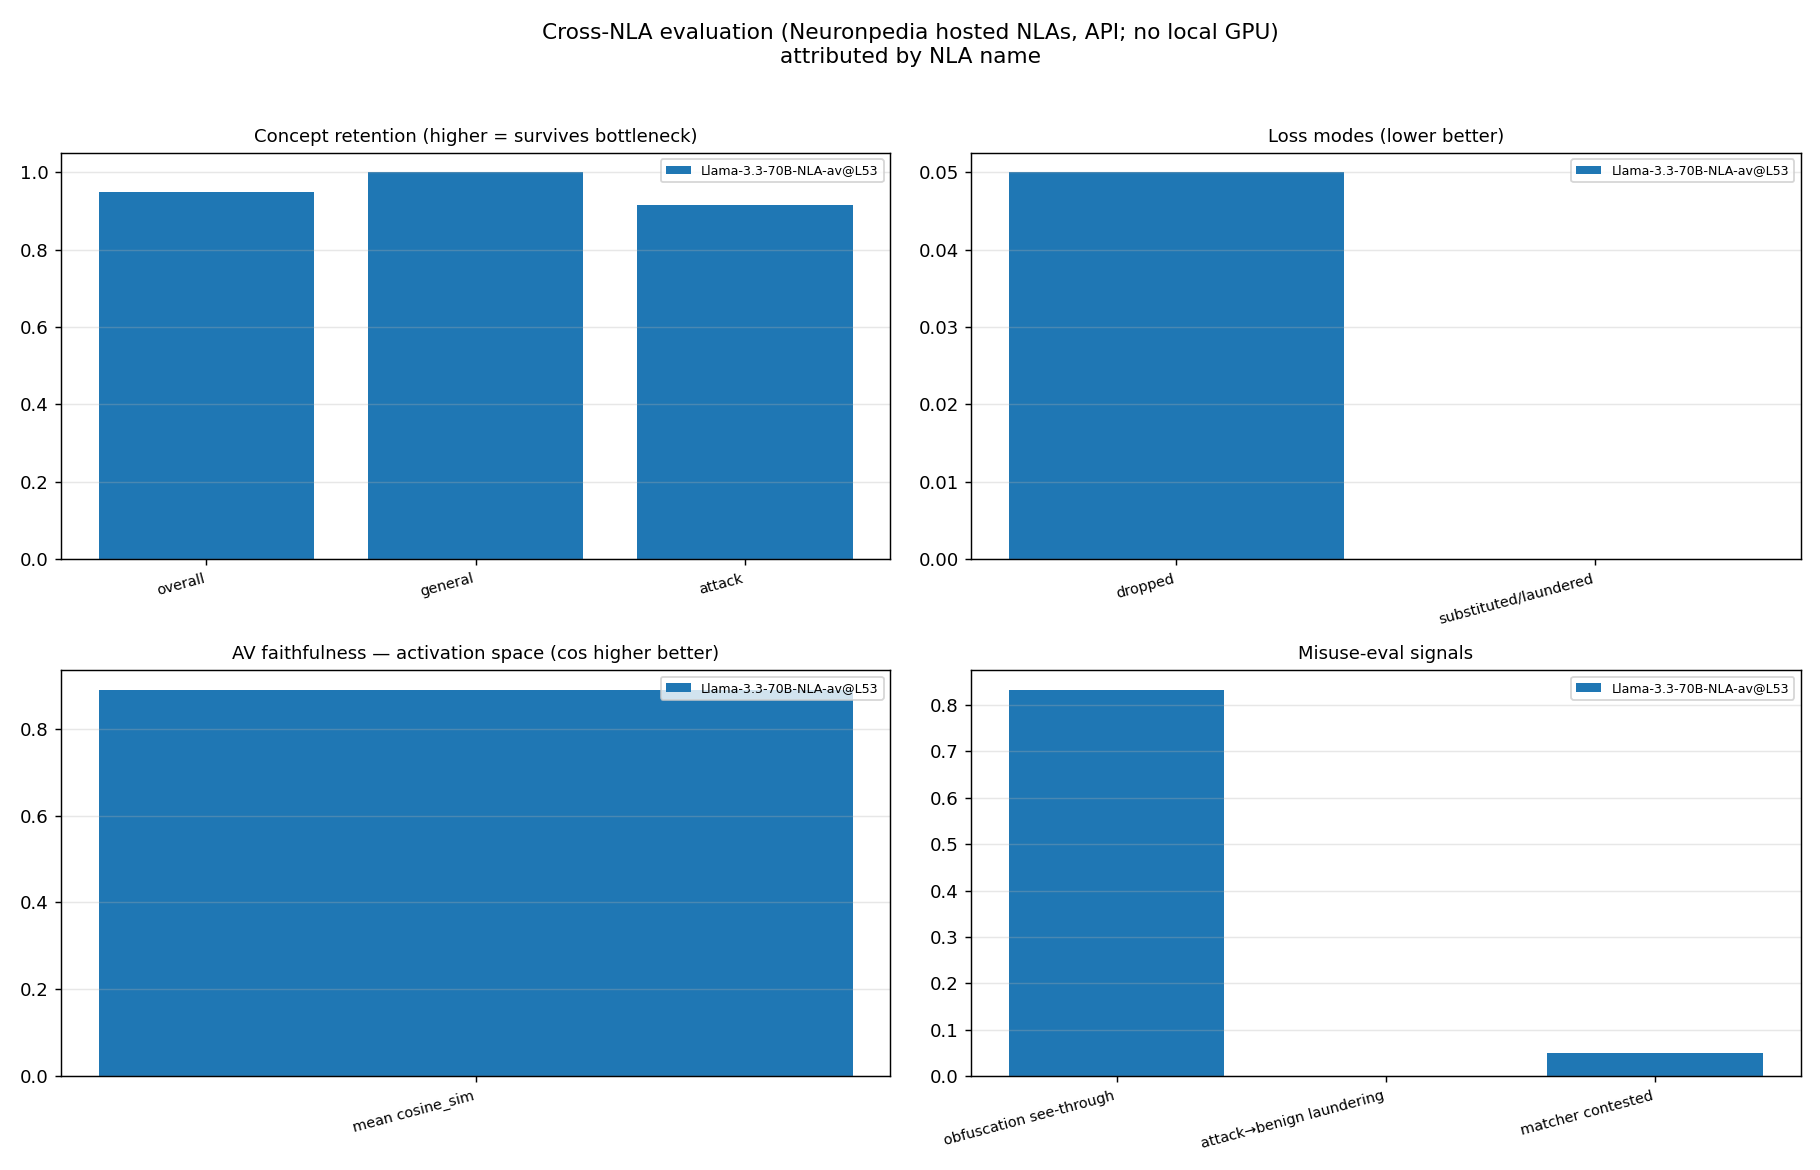
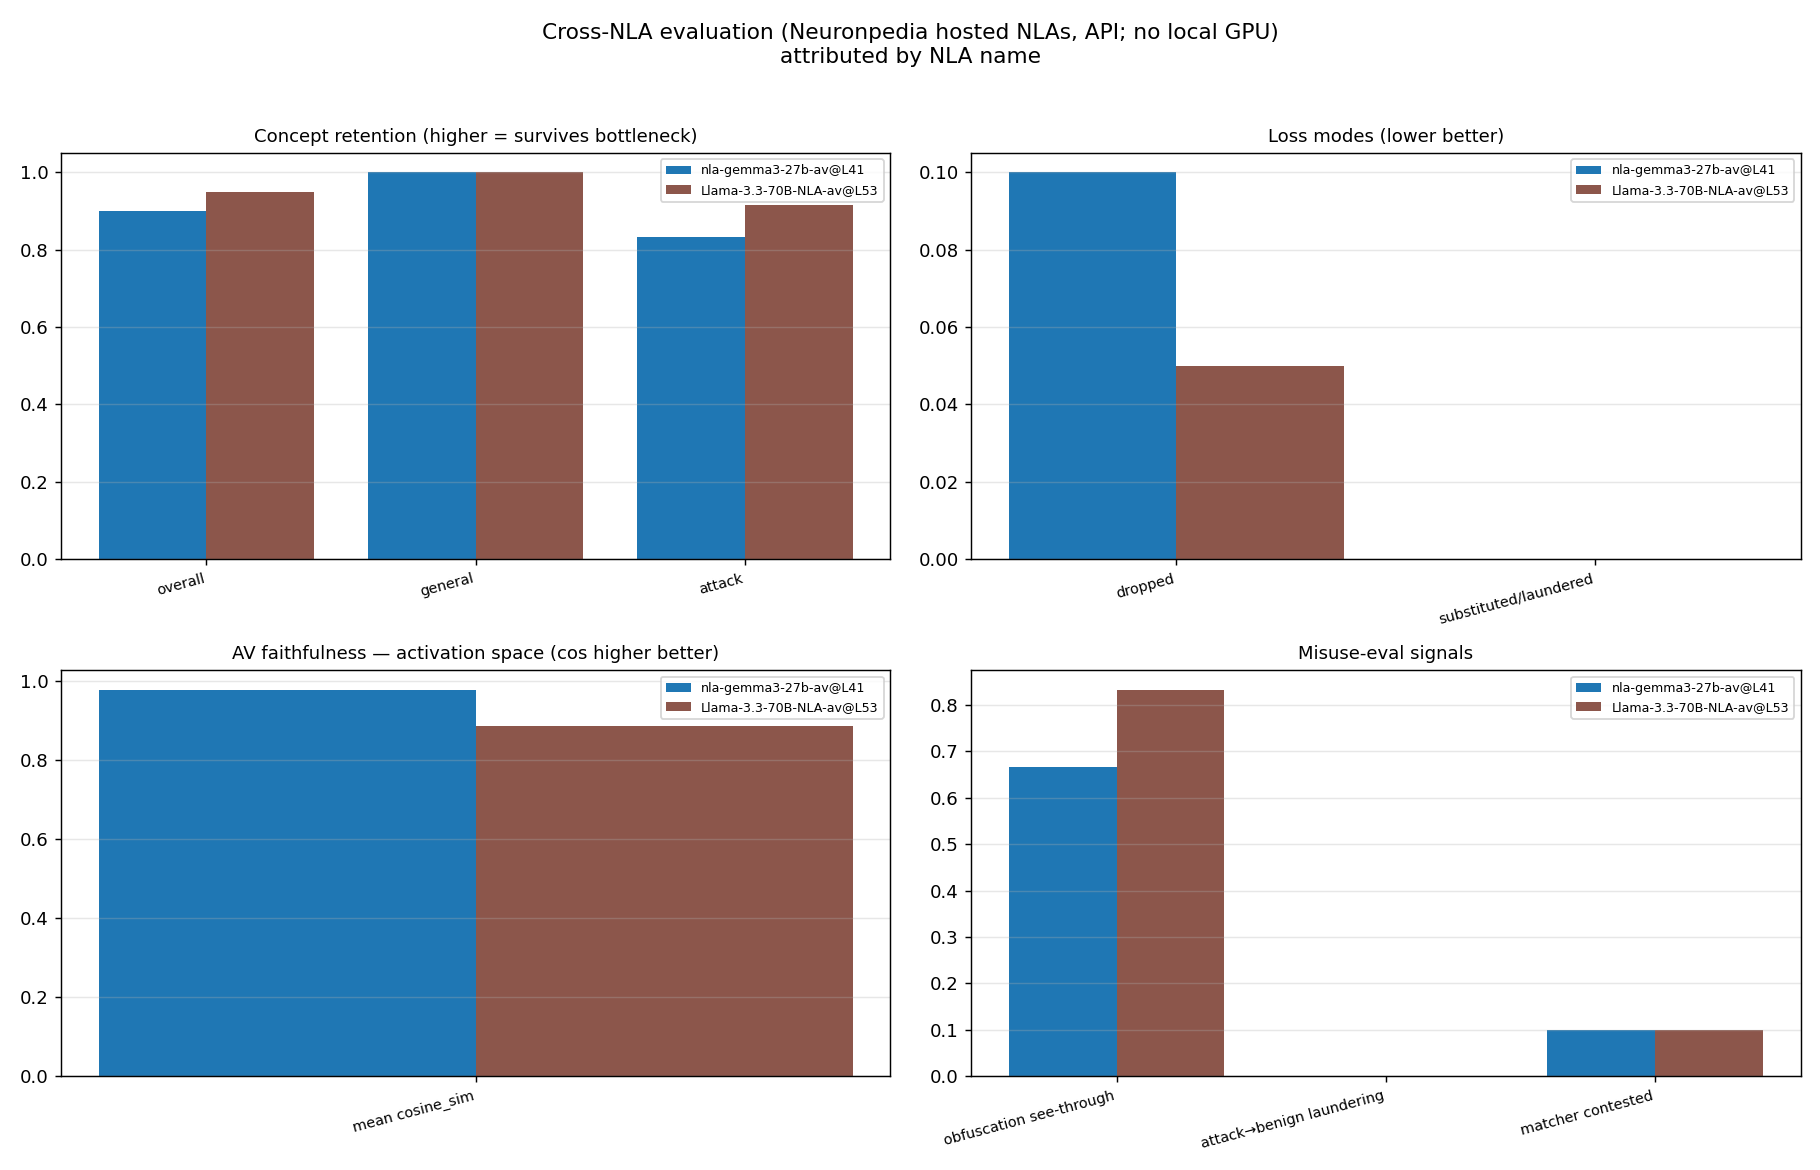
Gemma-3 NLA recovered: run designed cross-NLA comparison, retry transient 500
The Gemma-3-27B NLA inference server (kitft-l41) recovered on 2026-06-10 after
being 502 since ~2026-06-05. Ran the designed hosted-vs-hosted comparison.

- nla_eval/adapters.py: add 500 to NeuronpediaNLA._RETRY_CODES. The recovered
  backend emits transient 'NLA server error: 500' that clears on retry; without
  this a single transient fault aborted the whole Gemma-3 run (which is what
  happened on the first attempt). A persistent 500 still raises after the budget.
- results/cross_nla/: Gemma-3 evaluated on the identical 20-example dataset and
  matcher as Llama, so retention/see-through/laundering are directly comparable.
  Gemma-3: retention 0.90, cosine 0.979 (mse 0.043), see-through 0.67, laundering
  0.00. Llama (re-run): retention 0.95, cosine 0.887 (mse 0.225), see-through
  0.83, laundering 0.00. cross_nla_comparison.png regenerated as a real 2-NLA
  comparison (was single-NLA while Gemma-3 was down). STATUS.md updated.
- README leaderboard table + bullets updated with Gemma-3's real numbers (was
  'pending'); embeds the hosted Gemma-3-vs-Llama comparison graph.

Open: Gemma-3 held-out doc retrieval (protocol-anchored) not yet run.
AI-writing pass: 0 em dashes / watchlist / prose semicolons.

diff --git a/nla_eval/adapters.py b/nla_eval/adapters.py
@@ -136,8 +136,11 @@ class NeuronpediaNLA(NLA):
         self.last_truncated = 0
 
     # gateway codes worth retrying — the NLA inference server is on RunPod and
-    # cold-starts with 502/503/504; 429 is the documented rate limit.
-    _RETRY_CODES = (429, 502, 503, 504)
+    # cold-starts or transiently faults with 500/502/503/504; 429 is the documented
+    # rate limit. 500 is included because the hosted backend emits transient
+    # "NLA server error: 500" responses that clear on retry (seen on Gemma-3,
+    # 2026-06-10); a genuine persistent 500 still raises after the retry budget.
+    _RETRY_CODES = (429, 500, 502, 503, 504)
 
     def _explain(self, text: str, positions):
         import json

diff --git a/README.md b/README.md
@@ -328,8 +328,23 @@ chance is 0.077, MiniLM embedder), so it is directly comparable across NLAs.
 | NLA (by name) | Base model | Access | Doc retrieval char / sem | Concept retention | Obfuscation see-through | Laundering |
 |---|---|---|---|---|---|---|
 | `Llama-3.3-70B-NLA-av@L53` | llama3.3-70b-it | hosted (API only) | **0.396 / 0.503** | 0.95 | 0.83 | 0.00 |
+| `nla-gemma3-27b-av@L41` | gemma-3-27b-it | hosted (API only) | not yet run | 0.90 | 0.67 | 0.00 |
 | `Gemma-4-E2B-NLA@L23` | google/gemma-4-E2B | local (full access) | **0.135 / 0.135** | not run on this set | not run on this set | not run on this set |
-| `nla-gemma3-27b-av@L41` | gemma-3-27b-it | hosted (API only) | pending | pending | pending | pending |
+
+The two hosted NLAs (Llama and Gemma-3) were run on the **identical 20-example
+dataset with the identical matcher**, so their retention, see-through, and
+laundering are directly comparable to each other. Doc retrieval is the column that
+is also comparable to the local Gemma-4 NLA, because its null is fixed by the
+protocol (12 distractors, chance 0.077). Gemma-3 doc retrieval is not yet run.
+
+![Cross-NLA comparison of the two hosted NLAs (Gemma-3-27B and Llama-3.3-70B) on the identical dataset: concept retention, loss modes, AV faithfulness, and misuse-eval signals, attributed by NLA name.](results/cross_nla/cross_nla_comparison.png)
+
+Gemma-3 and Llama trade off against each other. Gemma-3 reconstructs much more
+faithfully (cosine 0.979 versus 0.887, mse 0.043 versus 0.225) but retains slightly
+fewer concepts (0.90 versus 0.95) and is easier to fool with obfuscated attack text
+(see-through 0.67 versus 0.83). Neither launders attack terms into benign neighbors.
+Activation-space cosine is reported per-NLA rather than ranked, because it is not on
+a common scale across different base models.
 
 **Full-access tier (white-box, local NLAs only).** Needs the raw activation, so it
 cannot be scored on the hosted NLAs above.
@@ -338,17 +353,9 @@ cannot be scored on the hosted NLAs above.
 |---|---|
 | `Gemma-4-E2B-NLA@L23` | 0.988 / 0.695 |
 
-The Llama NLA's mean reconstruction faithfulness is cosine 0.890, reported per-NLA
-rather than in the leaderboard because activation-space cosine is not on a common
-scale across base models. The Gemma-3 NLA is pending because its hosted inference
-server has returned 502 since about 2026-06-05, not because of a harness error (an
-identical request returns 200 for Llama). See the
-[access tiers](#access-tiers-api-runnable-vs-full-access) section for why only the
-hosted-on-the-same-protocol metrics line up across NLAs.
+![Llama-3.3-70B vs Gemma-4-E2B on held-out doc retrieval (left) and the Gemma-4-E2B bottleneck probe in-distribution vs out-of-distribution (right), attributed by NLA name.](results/cross_nla/cross_nla_docret_comparison.png)
 
-![Cross-NLA results: held-out doc retrieval across the tested NLAs (left) and the Gemma-4-E2B bottleneck probe in-distribution vs out-of-distribution (right), attributed by NLA name.](results/cross_nla/cross_nla_docret_comparison.png)
-
-The two sides tell different stories. The Llama NLA is verbalizer-strong: its AV
+These two sides tell different stories. The Llama NLA is verbalizer-strong: its AV
 text identifies the held-out source document well above chance. The Gemma-4-E2B NLA
 is the opposite, bottleneck-strong but verbalizer-weak: a linear probe reads
 in-distribution concepts off its activation at 0.988 AUC, yet its verbalization
@@ -357,11 +364,13 @@ at the conditioning wall. That gap is exactly what NLAttack is built to separate
 
 The detail bullets, with caveats:
 
-- **Cross-NLA, hosted (no GPU).** On a fixed dataset, the **Llama-3.3-70B** NLA
-  (`kitft-l53`) reaches concept retention 0.95, zero attack-to-benign laundering,
-  and mean AV faithfulness (cosine) 0.890. Held-out doc retrieval, matched to the
-  Gemma-4 protocol below (same docs, 12 distractors so chance is 0.077, MiniLM
-  embedder): char 0.396, semantic 0.503.
+- **Cross-NLA, hosted (no GPU).** On one fixed 20-example dataset and matcher, the
+  **Llama-3.3-70B** NLA (`kitft-l53`) reaches concept retention 0.95, AV
+  faithfulness cosine 0.887 (mse 0.225), and obfuscation see-through 0.83; the
+  **Gemma-3-27B** NLA (`kitft-l41`) reaches retention 0.90, a much higher cosine
+  0.979 (mse 0.043), and see-through 0.67. Both show zero attack-to-benign
+  laundering. Llama held-out doc retrieval (12 distractors, chance 0.077, MiniLM):
+  char 0.396, semantic 0.503; Gemma-3 doc retrieval not yet run.
 - **Local Gemma-4-E2B NLA.** The bottleneck encodes in-distribution concepts at
   about 0.99 probe AUC and out-of-distribution concepts at about 0.70, so the
   bottleneck is not a uniform filter. The verbalizer is the weak side: held-out

diff --git a/results/cross_nla/STATUS.md b/results/cross_nla/STATUS.md
@@ -5,12 +5,17 @@ attributed by NLA name (see README "Result attribution" convention).
 
 | NLA | status |
 |---|---|
-| `kitft/Llama-3.3-70B-NLA-av @ L53` (llama3.3-70b-it) | ✅ evaluated 2026-06-08 |
-| `kitft/nla-gemma3-27b-av @ L41` (gemma-3-27b-it) | ⏳ pending — its NLA inference server returns 502 (since ~2026-06-05) |
+| `kitft/Llama-3.3-70B-NLA-av @ L53` (llama3.3-70b-it) | ✅ evaluated 2026-06-10 (re-run) |
+| `kitft/nla-gemma3-27b-av @ L41` (gemma-3-27b-it) | ✅ evaluated 2026-06-10 (recovered) |
 
-Diagnosis: the call format is correct (identical request returns 200 for Llama);
-`/api/nla/sources` + the webapp are up; only the Gemma-3 NLA inference instance is
-down — likely related to recent NLA-server infra commits (hqq-on-Blackwell /
-sglang). A persistent retry runs the full side-by-side automatically when Gemma-3
-recovers. This is the API-runnable subset (retention + AV faithfulness); the
-probe/emergence dashboard needs activations the hosted API doesn't expose.
+The Gemma-3 NLA inference server recovered on 2026-06-10 (it had returned 502 since
+~2026-06-05). It now serves normal requests but still emits transient
+"NLA server error: 500" responses on some calls; the adapter's retry set was
+extended to include 500 so a single transient fault no longer aborts a run. Both
+NLAs were evaluated on the identical 20-example dataset and matcher, so retention,
+see-through, and laundering are directly comparable; results are in
+`cross_nla_summary.json` and the per-NLA JSON/CSV files.
+
+Still open: Gemma-3 held-out doc retrieval (the protocol-anchored metric comparable
+to the local Gemma-4 NLA) has not been run yet. The probe/emergence axes need
+activations the hosted API does not expose, so they remain full-access only.
